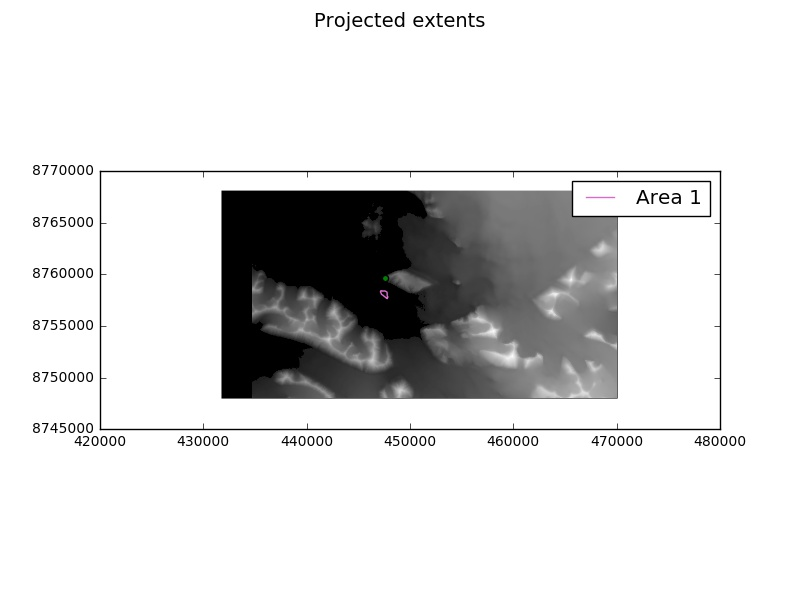
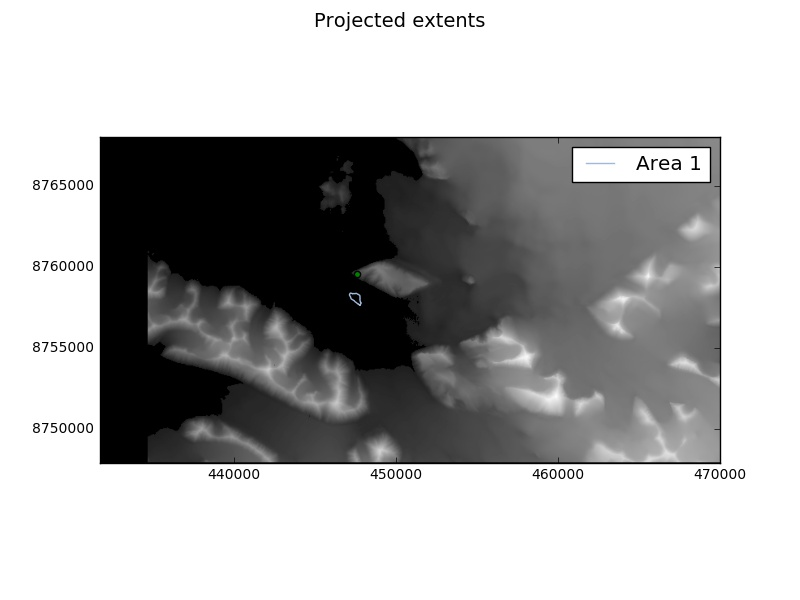
Shapefile writing de-bugged

diff --git a/Examples/driver_tunaterminus_terminusdefinition.py b/Examples/driver_tunaterminus_terminusdefinition.py
@@ -32,6 +32,7 @@ from PointPlotter import PointPlotter
 from Points import Point2D
 from Polylines import Polyline,Segment
 
+
 #-------------------   Functions for volume calculations   --------------------
 
 def polyline_reader(rline, idchar=None, dateTime=None):
@@ -206,12 +207,13 @@ def calcAreas(polys):
     return areas
 
     
-def doPlots(baseline,line,polys,show=False):
+def doPlots(baseline, line, polys, p0, pn, segs, show=False, lims=None):
     pp=PointPlotter()
-    fig, ax = mp.subplots() 
-    ax.set_xlim(xlo,xhi)
-    ax.set_ylim(ylo,yhi)
-    #pp.set_axis(xlo,xhi,ylo,yhi)        
+    fig, ax = mp.subplots()
+    if lims!=None:
+        xlo,xhi,ylo,yhi=lims
+        ax.set_xlim(xlo,xhi)
+        ax.set_ylim(ylo,yhi)      
     pp.plotPoint(p0,'blue')
     pp.plotPoint(pn,'magenta')        
     pp.plotPolylines(line)    
@@ -220,9 +222,7 @@ def doPlots(baseline,line,polys,show=False):
     
     for seg in segs:
         pp.plotSegment(seg,'red')
-        pp.plotPoint(seg.getStart(),'black')
-    
-    #pp.show()      
+        pp.plotPoint(seg.getStart(),'black') 
    
     patches =[]
     
@@ -249,7 +249,7 @@ def dataToCsv(fname,header,allVals):
     f=open(fname,'w')
     
     line1='File ID,FileName'
-    for i in range(len(allareas[0])):
+    for i in range(len(allVals[0])):
         line1=line1+',Area '+str(i+1)
     linesOut=[line1]
     for head,vals in itertools.izip(header,allVals):
@@ -292,13 +292,12 @@ rline, rlength, pxline, pxlength = importLineData(terminus, destination)
 ##Write area data to txt file
 #writeLineFile(terminus, destination)
 #
-##geodata = './Results/cam1/'+day+'/shpterm/'
-#geodata = destination +'shapefiles/'
-#if not os.path.exists(geodata):
-#    os.makedirs(geodata)
-#
-#proj = 32633
-#writeSHPFile(terminus, destination, proj)
+geodata = destination + 'shapefiles/'
+if not os.path.exists(geodata):
+    os.makedirs(geodata)
+
+proj = 32633
+writeSHPFile(terminus, destination, proj)
 
 
 #----------------------------   Show results   --------------------------------
@@ -312,116 +311,117 @@ rline, rlength, pxline, pxlength = importLineData(terminus, destination)
 
 #------------------------   Calculate area loss  ------------------------------
 
-plotting=False
- 
-#steps=51   
-steps=[0.0,0.3,0.55,0.9,0.96,1.0]
-
-perpendicular_length=2000
-
-#baseline co-ordinates '1' and '2' can be any way around
-x1=552920
-y1=8710720
-x2=554620
-y2=8708720
-
-#x1=553181
-#y1=8710240
-#x2=554650
-#y2=8708650
-    
-xr=(x2-x1)*.1
-yr=(y2-y1)*.1
-
-xlo=min(x1,x2)
-xhi=max(x1,x2)
-ylo=min(y1,y2)
-yhi=max(y1,y2)
-
-xlo=xlo-xr
-ylo=ylo-yr
-xhi=xhi+xr
-yhi=yhi+yr
-
-xlo=552500
-xhi=555500
-ylo=8707000
-yhi=8712000
-
-baseline=Segment(x1,y1,x2,y2)    
-
-allareas=[]
-dateheader=[]
-
-datetime=[]
-for im in terminus._imageSet:
-    imn = im.getImagePath().split('\\')[1]
-    datetime.append(imn)
-
-idline = np.arange(1,len(rline),1)  
-          
-#Get the polylines from line object  
-allrecs=polyline_reader(rline, idchar=idline, dateTime=datetime)
-print 'allrecs',len(allrecs)
-print allrecs
-    
-if len(allrecs)>0:
-
-    #Swap the direction of the baseline if necssary to make sure the 
-    #perpendiculars come the right way
-    sortGeometry(allrecs[0],baseline)
-    
-    #Define a set of perpendicular from the baseline to intersect with the 
-    #polylines this has to be redone on the offchance front lines are 
-    #digitised in different directions
-    segs=baseline.getPerpendicularSegs(steps,1.,length=perpendicular_length)
- 
-    print 'segs',segs
-
-    #Now for every line you have
-    count=1
-    for line in allrecs:
-    
-        print '\nProcessing line ' +str(count)+  ' with ', line.size(),' points'
-        
-        #Get around the situation where the polyline is 'short' in this 
-        #case
-        p0,pn=extendPolylineToMeet(line,segs)
-        polys,areas=extractPolys(line,segs,p0,pn)        
-        
-        #areas=calcAreas(polys)          
-    
-        doPlots(baseline,line,polys,show=plotting)
-        
-        allareas.append(areas)
-        dateheader.append(line.getID())
-        
-        count=count+1
-
-csvAreasOut = destination + 'volumeloss/allAreaData_subsets.csv'
-csvDistancesOut = destination + 'volumeloss/allDistData_subsets.csv'
-       
-if csvAreasOut!=None:
-    print '\nWriting area csv file'
-    dataToCsv(csvAreasOut,dateheader,allareas) 
-
-if csvDistancesOut!=None:
-    print '\nWriting length csv file'
-    baselinedists=[]
-    alldistances=[]
-    p0=segs[0].getStart()
-    for seg in segs[1:]:
-        p1 = seg.getStart()
-        baselinedists.append(p0.distance(p1))
-        p0=p1
-    #print baselinedists
-    for areas in allareas:
-        distances=[]
-        for basedist,area in itertools.izip(baselinedists,areas):
-            dist=area/basedist
-            distances.append(dist)
-        alldistances.append(distances)
-    dataToCsv(csvDistancesOut,dateheader,alldistances)
+#plotting=False
+# 
+##steps=51   
+#steps=[0.0,0.3,0.55,0.9,0.96,1.0]
+#
+#perpendicular_length=2000
+#
+##baseline co-ordinates '1' and '2' can be any way around
+#x1=552920
+#y1=8710720
+#x2=554620
+#y2=8708720
+#
+##x1=553181
+##y1=8710240
+##x2=554650
+##y2=8708650
+#    
+#xr=(x2-x1)*.1
+#yr=(y2-y1)*.1
+#
+#xlo=min(x1,x2)
+#xhi=max(x1,x2)
+#ylo=min(y1,y2)
+#yhi=max(y1,y2)
+#
+#xlo=xlo-xr
+#ylo=ylo-yr
+#xhi=xhi+xr
+#yhi=yhi+yr
+#
+#xlo=552500
+#xhi=555500
+#ylo=8707000
+#yhi=8712000
+#
+#baseline=Segment(x1,y1,x2,y2)    
+#
+#allareas=[]
+#dateheader=[]
+#
+#datetime=[]
+#for im in terminus._imageSet:
+#    imn = im.getImagePath().split('\\')[1]
+#    datetime.append(imn)
+#
+#idline = np.arange(1,len(rline),1)  
+#          
+##Get the polylines from line object  
+#allrecs=polyline_reader(rline, idchar=idline, dateTime=datetime)
+#print 'allrecs',len(allrecs)
+#print allrecs
+#    
+#if len(allrecs)>0:
+#
+#    #Swap the direction of the baseline if necssary to make sure the 
+#    #perpendiculars come the right way
+#    sortGeometry(allrecs[0],baseline)
+#    
+#    #Define a set of perpendicular from the baseline to intersect with the 
+#    #polylines this has to be redone on the offchance front lines are 
+#    #digitised in different directions
+#    segs=baseline.getPerpendicularSegs(steps,1.,length=perpendicular_length)
+# 
+#    print 'segs',segs
+#
+#    #Now for every line you have
+#    count=1
+#    for line in allrecs:
+#    
+#        print '\nProcessing line ' +str(count)+  ' with ', line.size(),' points'
+#        
+#        #Get around the situation where the polyline is 'short' in this 
+#        #case
+#        p0,pn=extendPolylineToMeet(line,segs)
+#        polys,areas=extractPolys(line,segs,p0,pn)        
+#        
+#        #areas=calcAreas(polys)          
+#    
+#        doPlots(baseline, line, polys, p0, pn, segs, 
+#                show=plotting,lims=[xlo,xhi,ylo,yhi])
+#        
+#        allareas.append(areas)
+#        dateheader.append(line.getID())
+#        
+#        count=count+1
+#
+#csvAreasOut = destination + 'volumeloss/allAreaData_subsets.csv'
+#csvDistancesOut = destination + 'volumeloss/allDistData_subsets.csv'
+#       
+#if csvAreasOut!=None:
+#    print '\nWriting area csv file'
+#    dataToCsv(csvAreasOut,dateheader,allareas) 
+#
+#if csvDistancesOut!=None:
+#    print '\nWriting length csv file'
+#    baselinedists=[]
+#    alldistances=[]
+#    p0=segs[0].getStart()
+#    for seg in segs[1:]:
+#        p1 = seg.getStart()
+#        baselinedists.append(p0.distance(p1))
+#        p0=p1
+#    #print baselinedists
+#    for areas in allareas:
+#        distances=[]
+#        for basedist,area in itertools.izip(baselinedists,areas):
+#            dist=area/basedist
+#            distances.append(dist)
+#        alldistances.append(distances)
+#    dataToCsv(csvDistancesOut,dateheader,alldistances)
 
 
 print 'Finished'

diff --git a/FileHandler.py b/FileHandler.py
@@ -1110,8 +1110,10 @@ def writeSHPFile(a, fileDirectory, projection=None):
 
     #Get areas/lines from the given class
     if hasattr(a, '_realpoly'):
+        print '\nDetected polygons to write as shapefiles'
         xyz = a._realpoly
     elif hasattr(a, '_realline'):
+        print '\nDetected lines to write as shapefiles'
         xyz = a._realline
     else:
         print '\nUnrecognised Area/Line class object'
@@ -1202,19 +1204,19 @@ def writeSHPFile(a, fileDirectory, projection=None):
 
             lcount=1
             
-            for shape in polys:
-                line = ogr.Geometry(ogr.wkbLineString)   
-                for p in shape:
-                    line.AddPoint(p[0],p[1])
+#            for shape in polys:
+#                line = ogr.Geometry(ogr.wkbLineString)   
+#                for p in shape:
+#                    line.AddPoint(p[0],p[1])
             
-                #Create feature            
-                feature = ogr.Feature(layer.GetLayerDefn())
-                feature.SetGeometry(line)
-                feature.SetField('id', lcount)
-                feature.SetField('length', line.Length())
-                layer.CreateFeature(feature)
-                feature.Destroy() 
-                lcount=lcount+1
+            #Create feature            
+            feature = ogr.Feature(layer.GetLayerDefn())
+            feature.SetGeometry(polys)
+            feature.SetField('id', lcount)
+            feature.SetField('length', polys.Length())
+            layer.CreateFeature(feature)
+            feature.Destroy() 
+            lcount=lcount+1
             
             imgcount=imgcount+1
             ds.Destroy()

diff --git a/Examples/driver_manualarea.py b/Examples/driver_manualarea.py
@@ -24,14 +24,14 @@ import time
 sys.path.append('../')
 from Measure import Area
 from CamEnv import CamEnv
-from FileHandler import writeAreaFile, writeSHPFile, importMeasureData
+from FileHandler import writeAreaFile, writeSHPFile, importAreaData
 from Utilities import plotPX, plotXYZ
 
 
 #-----------------------------   Map data files   -----------------------------
 
 #Define data inputs
-camdata = '../Examples/camenv_data/camenvs/CameraEnvironmentData_cam1_2014.txt'
+camdata = '../Examples/camenv_data/camenvs/CameraEnvironmentData_KR1_2014.txt'
 camimgs = '../Examples/images/KR1_2014_subset/*.JPG'
 
 #Define data output directory
@@ -59,8 +59,8 @@ plumes = Area(camimgs, cameraenvironment, calibFlag, None, maxim, imband,
 
 #-------------------------   Calculate areas   --------------------------------
 
-#Calculate real areas
-rpolys, rareas = plumes.calcManualAreas()
+##Calculate real areas
+#rpolys, rareas = plumes.calcManualAreas()
 
 ##Calculate pixel extents. Use this function if pixel extents are only needed, 
 ##or a DEM is not available. Pixel extents are automatically calculated if 
@@ -68,7 +68,7 @@ rpolys, rareas = plumes.calcManualAreas()
 #polys, areas = plumes.calcExtents()
 
 #Import data from file
-rpolys, rareas, pxpolys, pxareas = importMeasureData(plumes, destination)
+rpolys, rareas, pxpolys, pxareas = importAreaData(plumes, destination)
 
 
 #----------------------------   Export data   ---------------------------------
